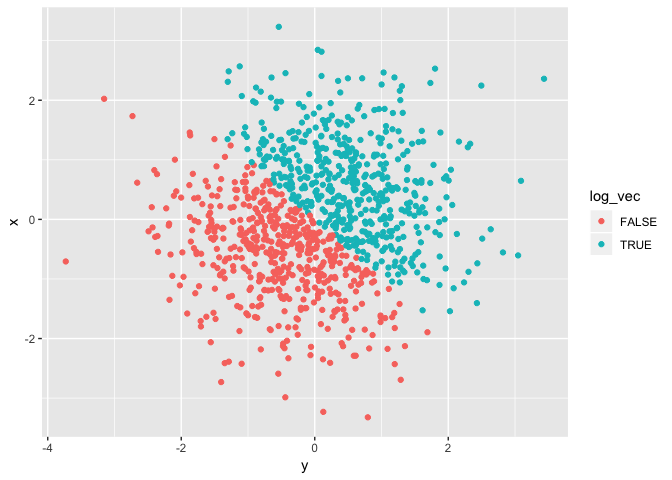
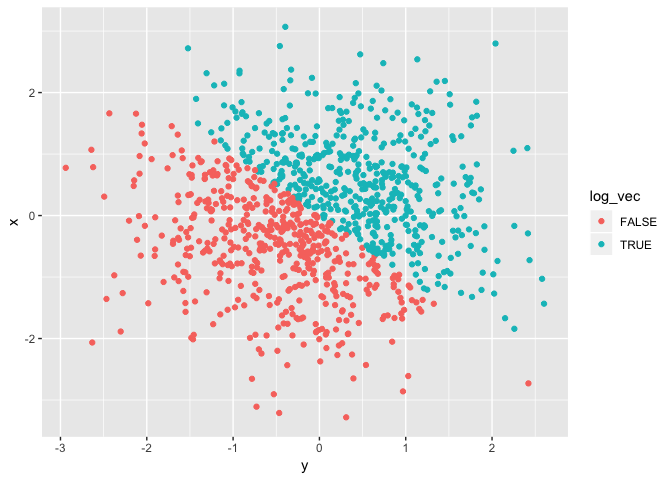
a few more formatting changes

diff --git a/p8105_hw1_ja3314.md b/p8105_hw1_ja3314.md
@@ -1,5 +1,6 @@
 p8105\_hw1\_ja3314
 ================
+Jaisal Amin
 
 Problem 1
 ---------
@@ -24,7 +25,7 @@ summarise_at(uniform_dist_df, c("vec_numeric", "vec_logical", "vec_char", "vec_f
     ## # A tibble: 1 x 4
     ##   vec_numeric vec_logical vec_char vec_factor
     ##         <dbl>       <dbl>    <dbl>      <dbl>
-    ## 1        2.30         0.6       NA         NA
+    ## 1        2.03         0.4       NA         NA
 
 The mean calculation only works for the numeric and logical vectors. The character and factor vectors do not contain numeric values and hence a mean cannot be calculated. The logical vector values are coerced to numeric and therefore a value has been calculated.
 
@@ -71,7 +72,7 @@ norm_dist_df = tibble(
 )
 ```
 
-This vector's dimensions are \[1000, 5\]. x has a mean of -0.0029985 and a median of -0.0511068. The proportion of `TRUE` cases in the logical vector is 0.502.
+This vector's dimensions are \[1000, 5\]. x has a mean of 0.0196585 and a median of 0.0327154. The proportion of `TRUE` cases in the logical vector is 0.505.
 
 **Creating scatterplots:**
 
